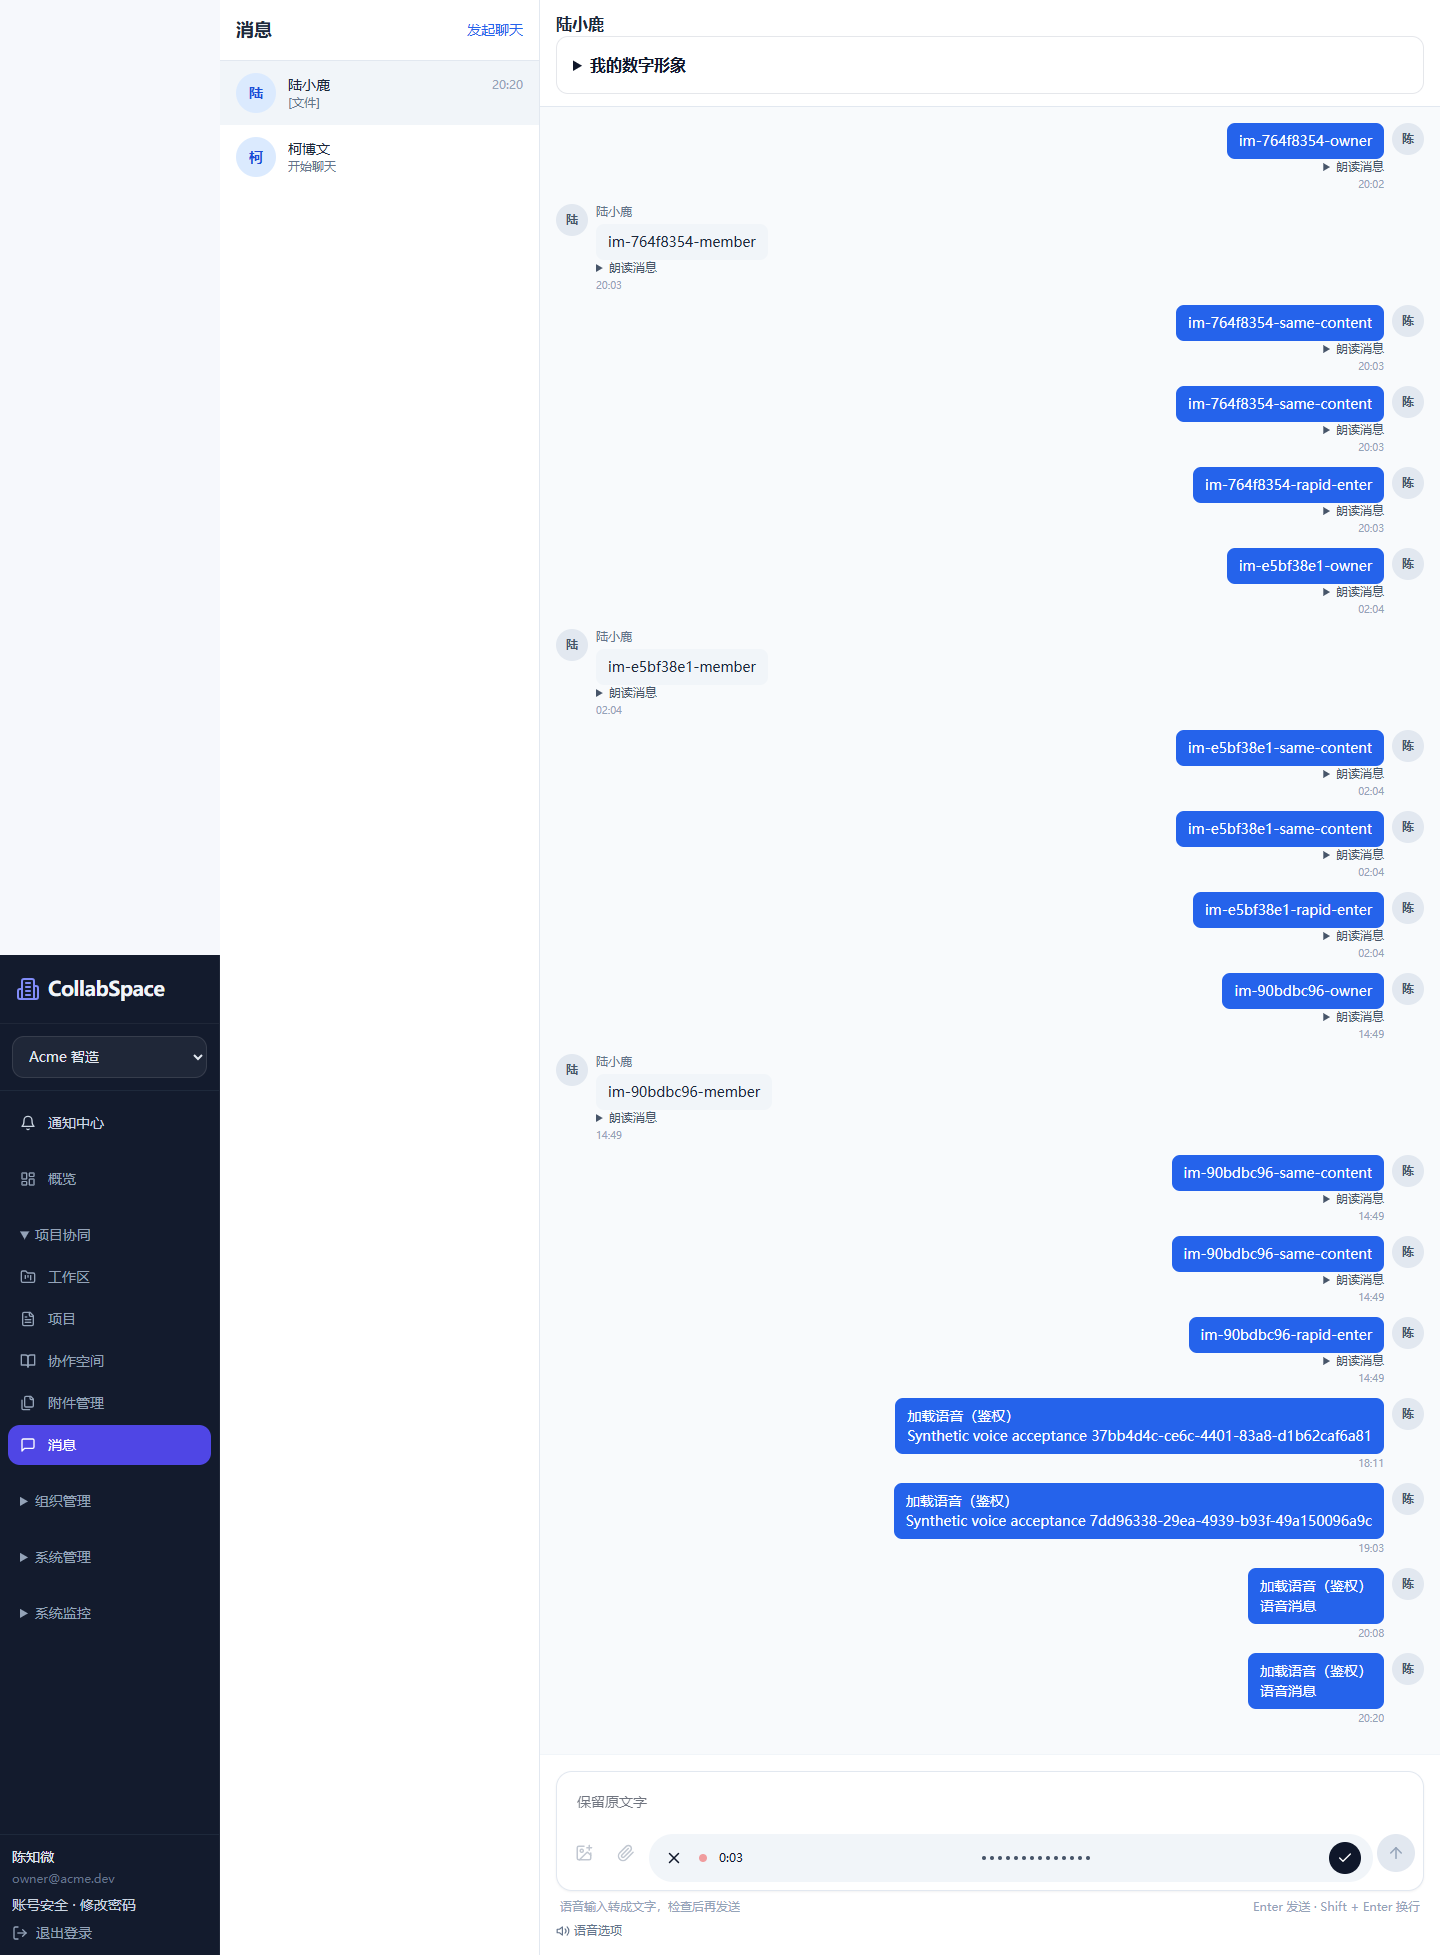
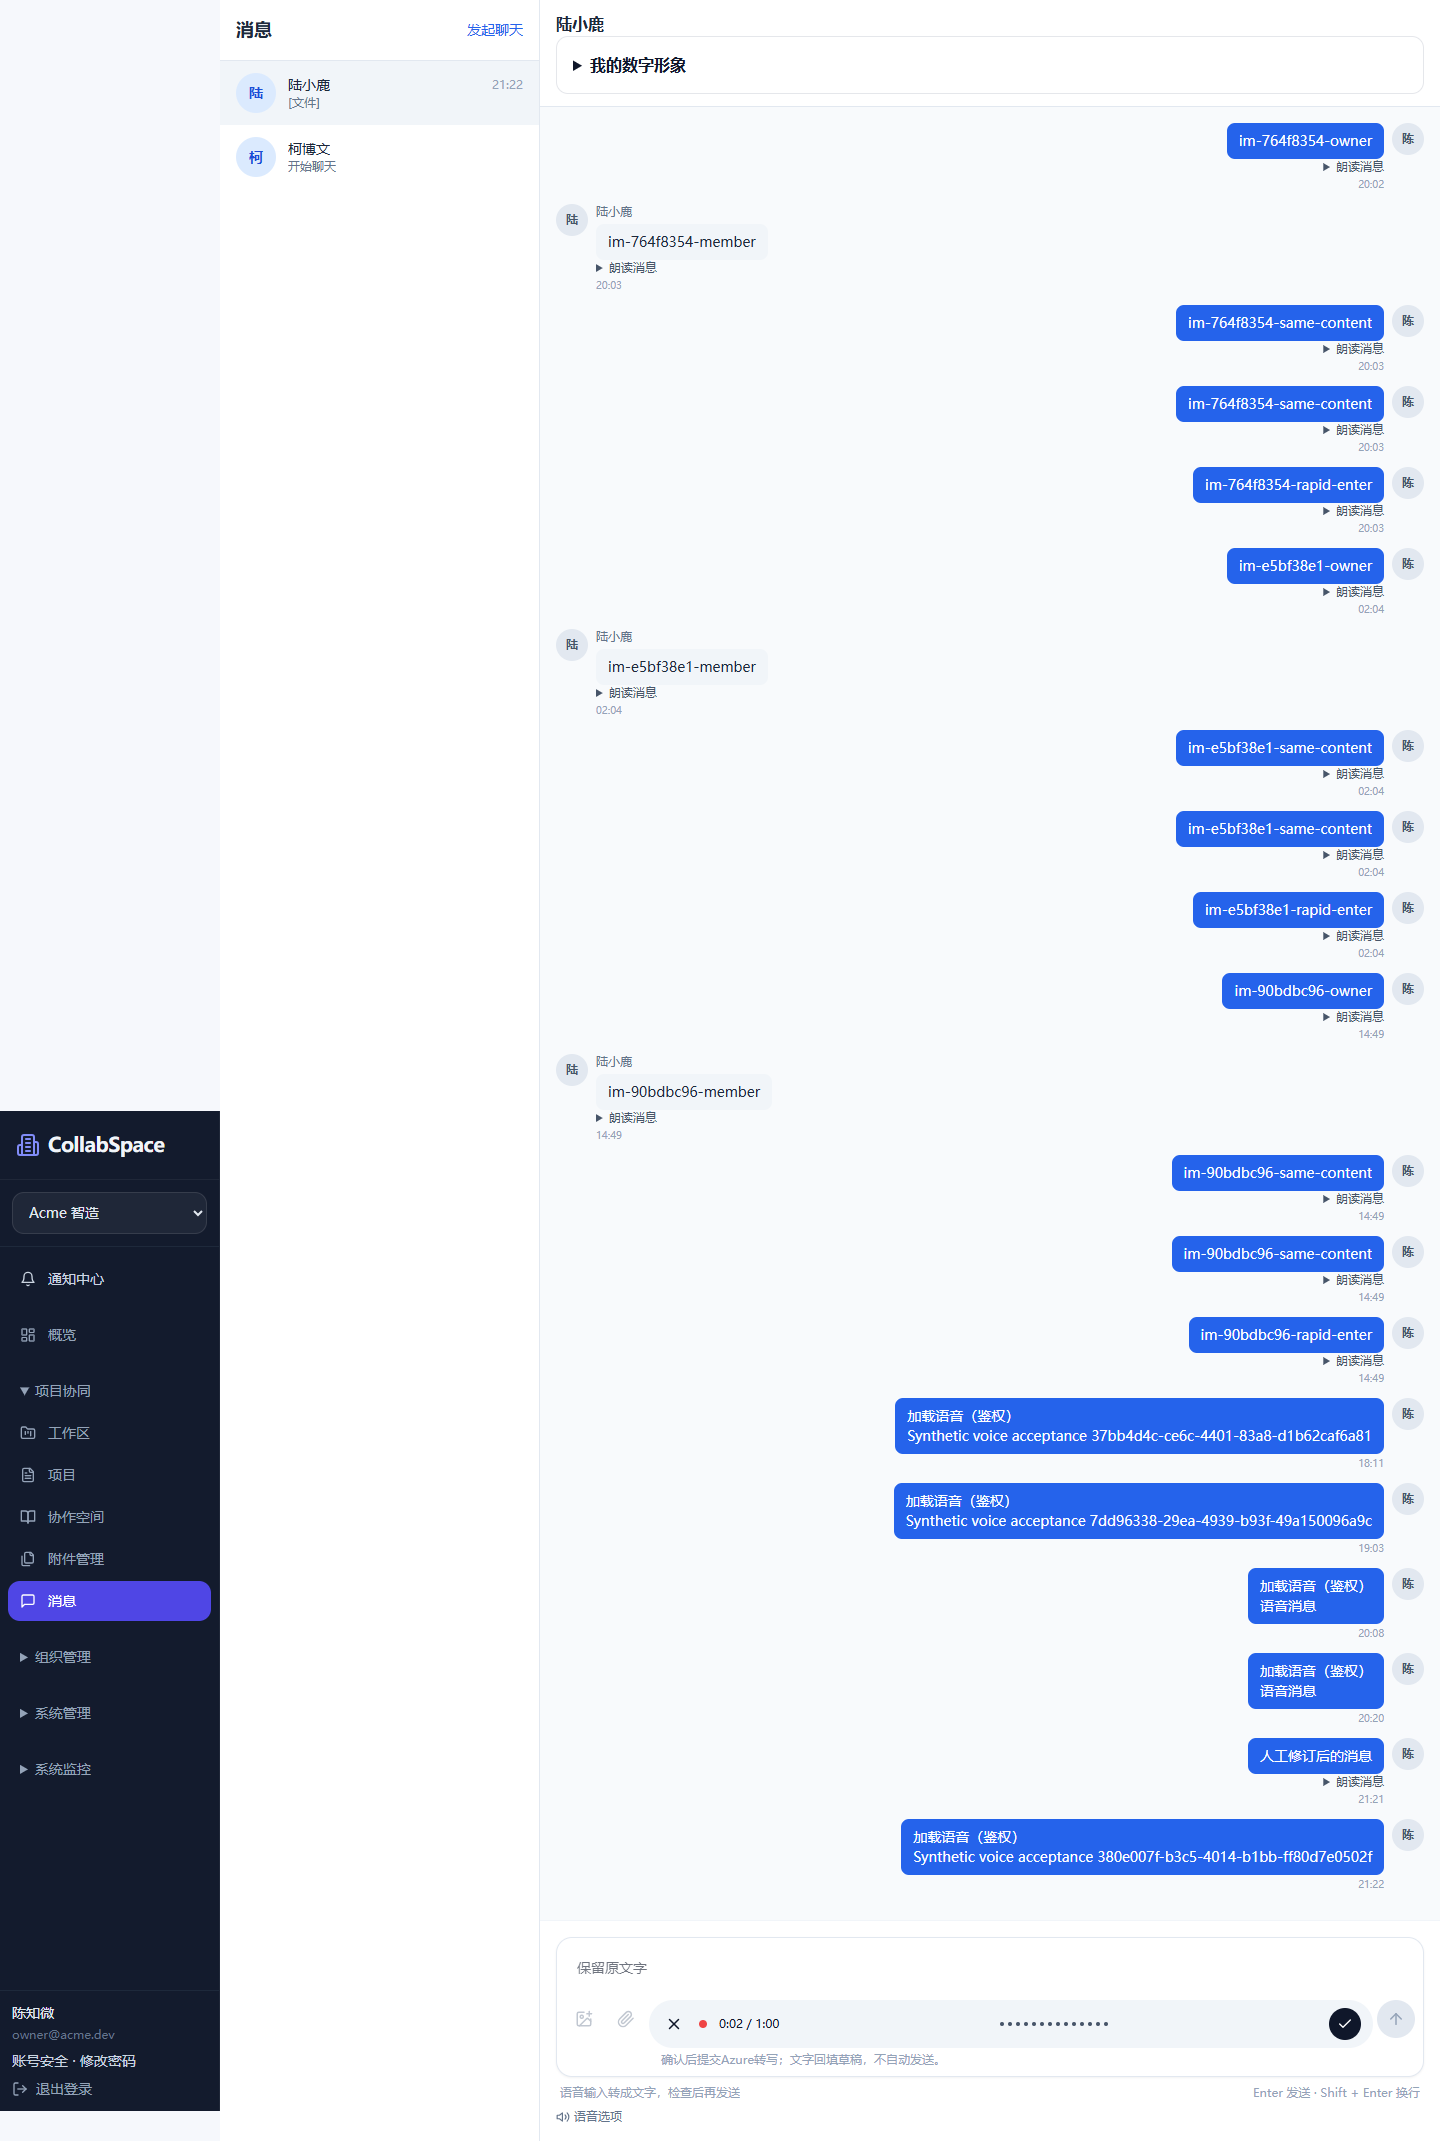
docs: record final dictation production acceptance and resource checks

diff --git a/docs/collaboration/VOICE-PERSONA-STATUS.md b/docs/collaboration/VOICE-PERSONA-STATUS.md
@@ -2,7 +2,7 @@
 
 更新：2026-10-25，北京时间。对应P-VP01–08。当前站点：https://collabspace.purelamp.uk ，IM入口`/im`，邮件/助手入口`/assistant`。本清单覆盖本轮语音与形象功能；既有协作文档、白板、权限等底座没有因此获得全量重新验收。
 
-后续进展：用户已确定国内外统一Azure STT+TTS、OpenAI作为未来海外版可选项；[IM听写方案](VOICE-DICTATION-UX.md)、[供应商决策](SPEECH-PROVIDER-SELECTION.md)和[本轮实际验收](../../evidence/collaboration/DICTATION-RUNTIME-2026-10-25.md)覆盖后续变化。受限只读项目工具+真实DeepSeek工作流已本地和正式站点验收，IM新版及正式业务整组6/6通过；仍不具备持久/自治Agent运行时。下方原始清单的“无真实运行时”是首次交付状态。
+后续进展：用户已确定国内外统一Azure STT+TTS、OpenAI作为未来海外版可选项；[IM听写方案](VOICE-DICTATION-UX.md)、[供应商决策](SPEECH-PROVIDER-SELECTION.md)和[本轮实际验收](../../evidence/collaboration/DICTATION-RUNTIME-2026-10-25.md)覆盖后续变化。受限只读项目工具+真实DeepSeek工作流已本地和正式站点验收，IM新版及正式业务整组6/6通过；时长上限确认保护追加本地5/5、最终正式域名5/5通过。仍不具备持久/自治Agent运行时，发布身份和分层成绩详见实际验收报告。
 
 ## 已交付且有实际验收证据
 
@@ -23,7 +23,7 @@
 | TTS | Azure REST适配；文字版本失效、停止播放；系统朗读降级 | 无真实合成质量/成本/网络成绩；系统朗读依赖客户端，跨浏览器未验收 |
 | 音频驱动形象 | Three.js按音量近似开合嘴 | 不是精确viseme；没有真实云音频同步验收 |
 | VRM | 本地文件预览入口、10MiB大小保护、不上传 | 有效授权模型、加载失败恢复、跨设备保存和共享未完成验收 |
-| Agent/Skill | 版本化状态协议、组件、顺序去重、完成需要运行时结果引用 | 没有真实运行时接入与工具执行成绩 |
+| Agent/Skill | 版本化状态协议、组件、只读项目事实工具+真实DeepSeek生成；结果引用和幂等/权限已正式验收 | 运行收据进程内15分钟；没有持久调度、重启恢复、自主工具规划或通用Skill执行引擎 |
 | 临时数据 | 24小时接口过期；本人下次创建清理过期行 | 无人访问时定时物理清理、备份/供应商过期清理未完成 |
 | 后台队列 | BullMQ可选适配，默认关闭，数据库为状态权威 | Redis故障、多worker崩溃、强杀恢复未验收；生产不启用 |
 
@@ -41,7 +41,7 @@
 1. **真实语音服务配置和小样本验收（BLOCKED）**：补齐Azure地区/密钥；中文、英文、混说、噪声、空音频、失败/取消样本；检查文字修订后发送、TTS真实可听、网络和账单。先定义可接受质量与预算，再记录真实成绩。凭据不得进入源码。
 2. **生产数据保留与费用门禁（待实现）**：无人访问时定时清理、备份保留策略、货币金额硬上限、实际费用核对。禁用云服务期间不能用无调用数据宣称这些通过。
 3. **真人供应商与授权资产（BLOCKED）**：确定异步/实时需求和一家供应商，验证本人/组织授权、音频版本绑定、私有视频鉴权、失败降级及邮件外部分享边界。
-4. **Agent/Skill真实运行时（待接入）**：在真实run上绑定身份、runId、顺序和结果引用；验证待确认、完成、失败、取消与“停止播报不取消任务”的区别。
+4. **Agent/Skill持久运行时（待实现）**：已有真实受限工作流及身份/runId/结果引用；后续补持久化、恢复、调度及通用Skill权限边界。真实云播报联动仍受Azure配置阻塞，不能将停止播报等同取消业务任务。
 5. **形象资产和兼容性（待验收）**：有效VRM与坏文件恢复、精确嘴型需求、移动端与Safari/Firefox、长时间预览资源释放；不以画布出现替代模型授权和音频同步。
 6. **后台队列与容量（开启前门禁）**：Redis故障、重复投递、多进程竞争、worker崩溃恢复、持久队列与压测；完成后再考虑生产启用和服务器迁移。
 

diff --git a/evidence/collaboration/DICTATION-RUNTIME-2026-10-25.md b/evidence/collaboration/DICTATION-RUNTIME-2026-10-25.md
@@ -66,4 +66,13 @@
 
 本轮测试启动器在正常关闭独立PG后结束，仅保留.test-runs合成数据和本地证据。源码及上线证据使用collabspace-20261025-dictation标签归档，压缩包与SHA256清单保存在.test-runs/archives；不纳入.env、凭据、node_modules或测试库。
 
-上线验收后再次核查：2026-10-25 21:25北京时间，MemAvailable1685MiB、磁盘8.9GiB/85%、load0.84/0.80/0.96，API66.63MiB/384MiB、CPU0.12%、OOM=false/restart0；DB/Redis up、Office=true。无迁移条件触发。5小时额度剩余50%，未达到低于10%的接力任务条件。
+上线验收后再次核查：2026-10-25 21:25北京时间，MemAvailable1685MiB、磁盘8.9GiB/85%、load0.84/0.80/0.96，API66.63MiB/384MiB、CPU0.12%、OOM=false/restart0；DB/Redis up、Office=true。无迁移条件触发。当时5小时额度剩余50%，未达到低于10%的接力任务条件。
+
+### 时长确认修正版 r20261025-07
+
+- 仅发布前端：源码ca27b28，123文件快照SHA256 0b104b38becd2e48ff7da5a5e58803ee3c9ca8b11ddf86a67609f5bae9ab9744。API保持r06与上述fd64a9f镜像，未重启后端、未执行迁移。
+- Vercel dpl_27jPmU8M39BxhgVyMqrs8Yfx8885，https://collabspace-9f6rrdvsc-purelamp.vercel.app，构建1分12秒，inspect Ready、promote成功。前端回退可用上一版dpl_2VYGL3gHuLgKPv9uRqBDeiHpcr2G。
+- 首次上传连接中断，核查部署列表没有新候选；通过已有本机HTTPS代理重试成功，未修改全局网络设置。
+- 21:48北京时间复核：MemAvailable1669MiB、磁盘8.9GiB/85%、load0.39/0.52/0.62；API73.23MiB/384MiB、CPU15.60%瞬时样本、OOM=false/restart0，DB/Redis up、Office=true。没有触发迁移条件，不将瞬时采样当压测。
+- 最终正式域名听写专项5/5通过，1.9分钟，`.test-runs/im-dictation-cap-online/.last-run.json`为passed、failedTests为空。第五项以加速浏览器时钟确认59秒停止后请求0次、明确确认后1次；另外四项继续保留原有断言。STT仍为显式接口替身，不计真实Azure识别成绩。新截图已人工检查录音条、取消/确认及隐私说明。
+- 最新5小时额度剩余35%，条件未触发，未创建10月26日00:42、05:44接力任务。发布和验收已完成；剩余真实供应商验收等待开通配置，不以定时重跑替代凭据。
